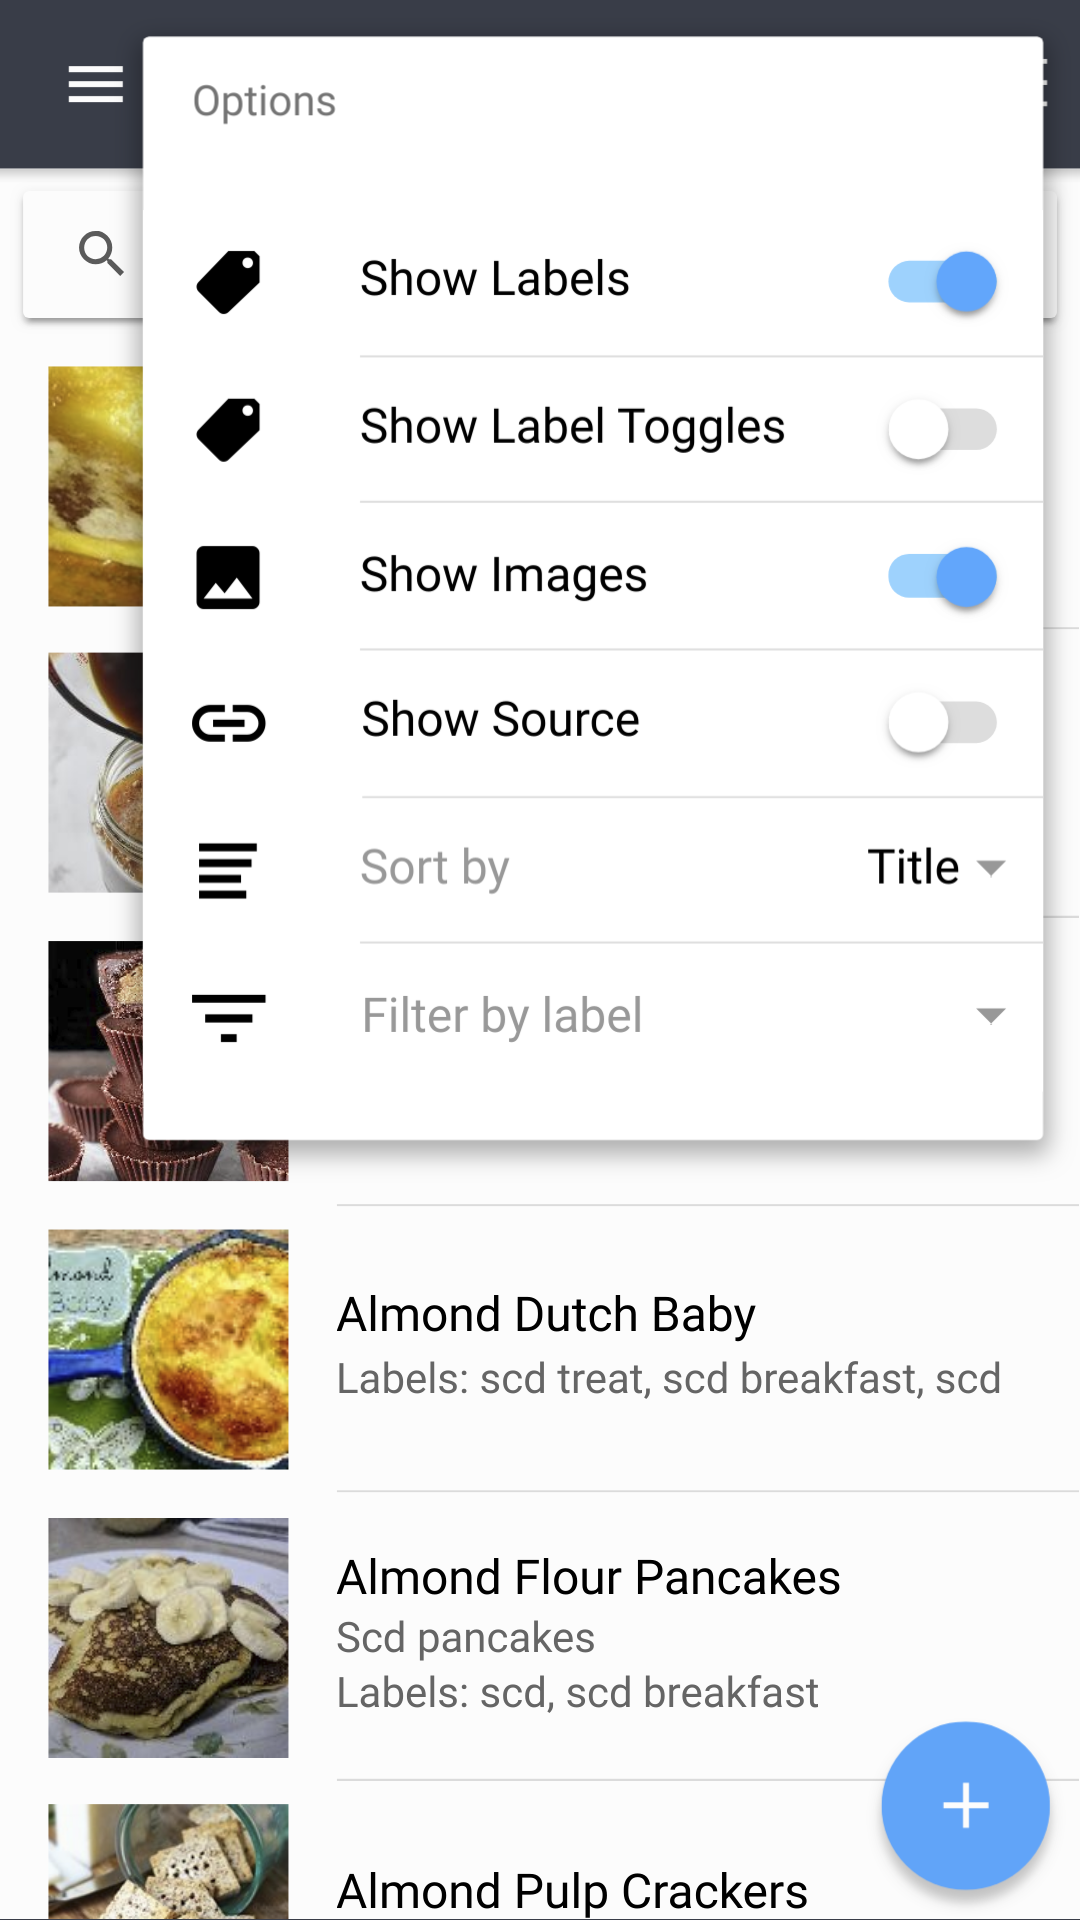
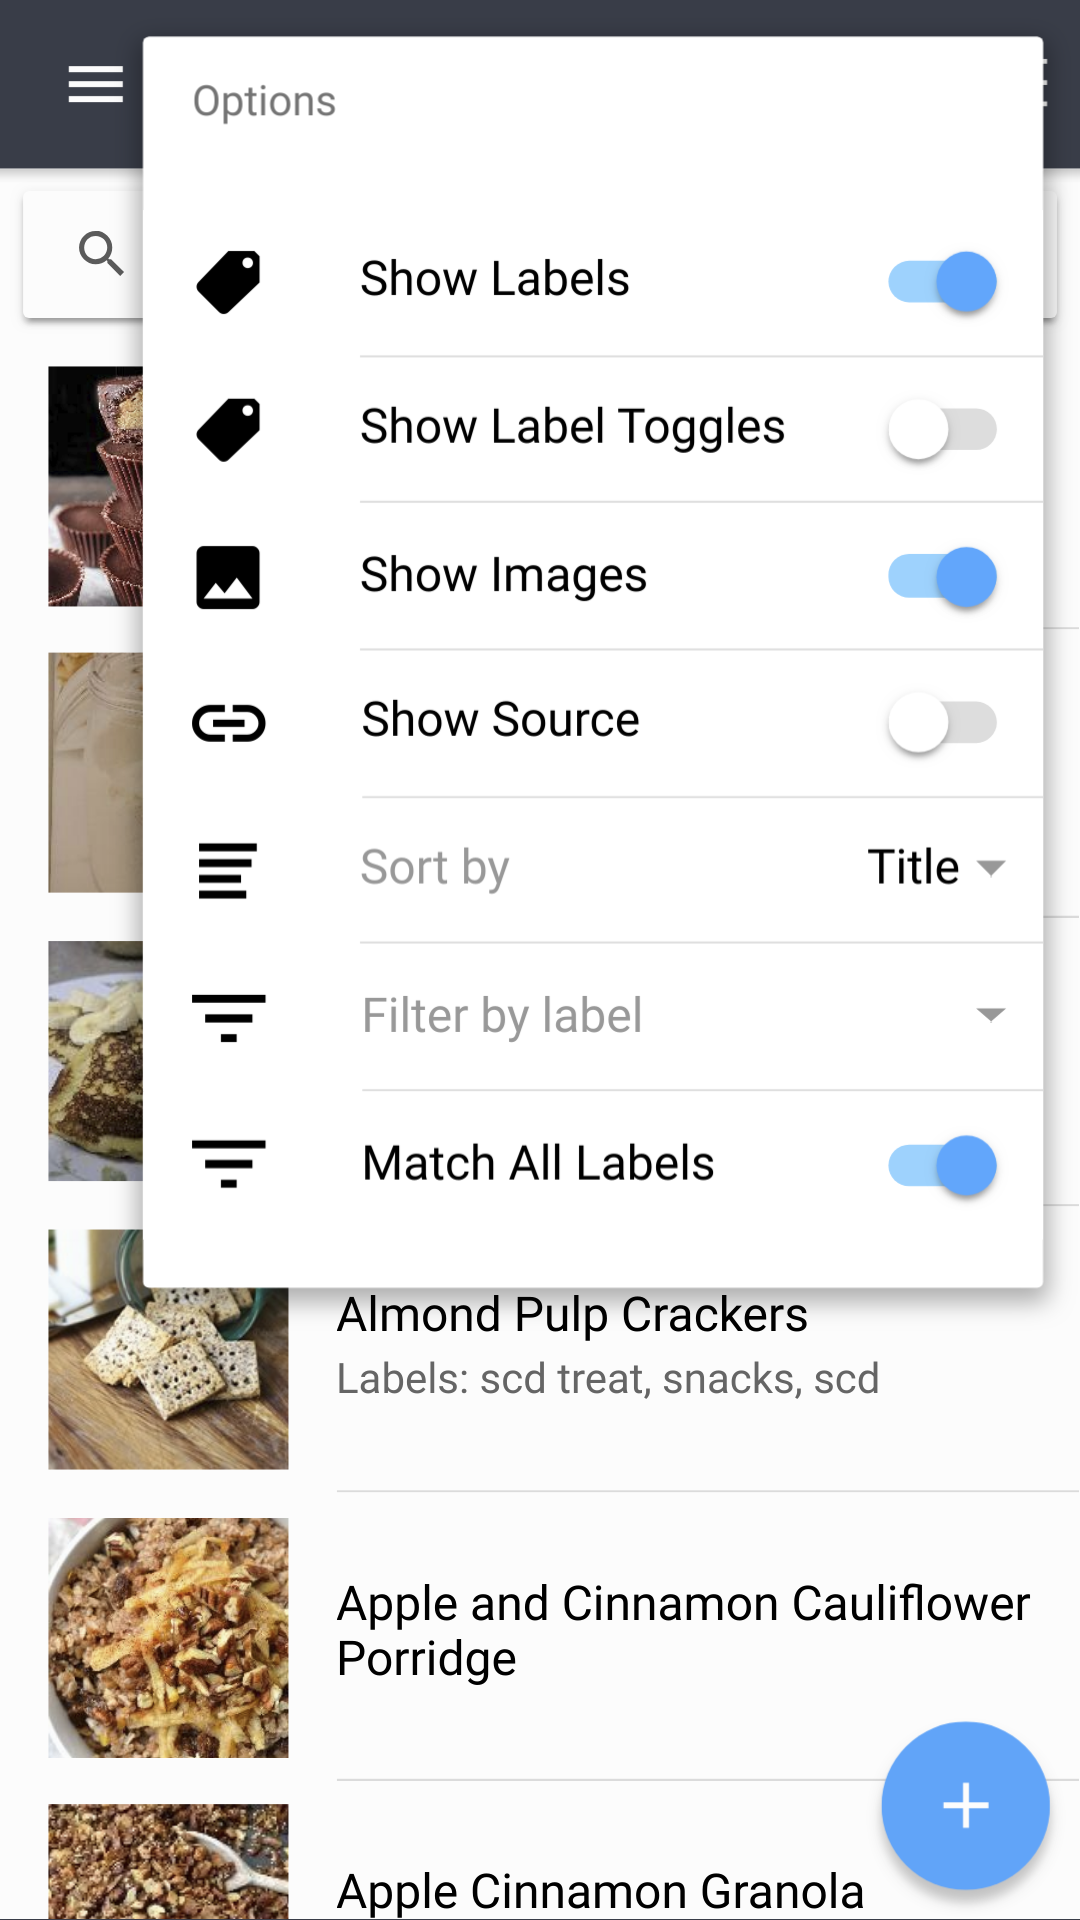
Update tutorial for new label filter

diff --git a/Frontend/src/pages/info-components/tips-tricks-tutorials/tips-tricks-tutorials.html b/Frontend/src/pages/info-components/tips-tricks-tutorials/tips-tricks-tutorials.html
@@ -73,7 +73,8 @@
 
         <b>Filter by Label</b>: Allows you to filter your recipes by assigned labels.<br /><br />
 
-        <b>Match All Labels</b>: Example: When off, filtering by labels "dinner" and "soup" will show recipes that have <i>either</i> of those labels.
+        <b>Match All Labels</b>: Changes how label filter is applied.
+        Example: When off, filtering by labels "dinner" and "soup" will show recipes that have <i>either</i> of those labels.
         When on, filtering by labels "dinner" and "soup" will only show recipes that have <i>both</i> of those labels.
       </p>
 
